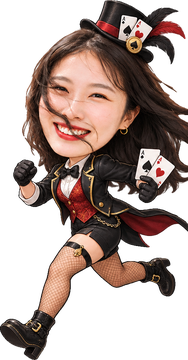
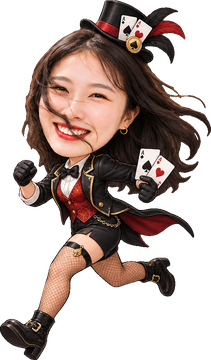
도박사 스프라이트를 새 원본(gambler-1~3)으로 재추출 (v1.1.27)
- 좌: gambler-1, 우: gambler-2, 피격: gambler-3
- 원본 알파가 지저분해 평면화 후 birefnet 재분리, 실측값 갱신

diff --git a/index.html b/index.html
@@ -537,7 +537,7 @@
   const elFinal = document.getElementById("finalScore");
   const elTitle = document.getElementById("overTitle");
 
-  const GAME_VERSION = "v1.1.26";   // 코드를 고칠 때마다 뒤 두 자리를 올린다
+  const GAME_VERSION = "v1.1.27";   // 코드를 고칠 때마다 뒤 두 자리를 올린다
   document.getElementById("ver").textContent = GAME_VERSION;
 
   const LS_NAME = "epjpddongpi_name";
@@ -637,9 +637,9 @@
      head/cx/cy/adj 는 실측값 — 헬멧 대신 얼굴이 판정 기준이다. */
   const SPR_GAMBLER = {
     // 모자·머리숱이 커서 같은 몸높이면 작아 보인다 — 15% 키워 백수와 체감을 맞췄다
-    left:  { img: null, aspect: 0.522, head: 0.394, cx: 0.516, cy: 0.314, adj: 0.6691 },
-    right: { img: null, aspect: 0.519, head: 0.369, cx: 0.588, cy: 0.317, adj: 0.6263 },
-    hurt:  { img: null, aspect: 0.439, head: 0.386, cx: 0.475, cy: 0.311, adj: 0.7128 }
+    left:  { img: null, aspect: 0.586, head: 0.404, cx: 0.464, cy: 0.328, adj: 0.6851 },
+    right: { img: null, aspect: 0.522, head: 0.369, cx: 0.590, cy: 0.319, adj: 0.6263 },
+    hurt:  { img: null, aspect: 0.439, head: 0.415, cx: 0.487, cy: 0.347, adj: 0.7651 }
   };
   const SPACE_Z = 6;                 // 오로라 지대 — 여기부터 우주복 차림
   /* 우주에 올라서면 체감 난이도를 이 배율만큼 올린다.
